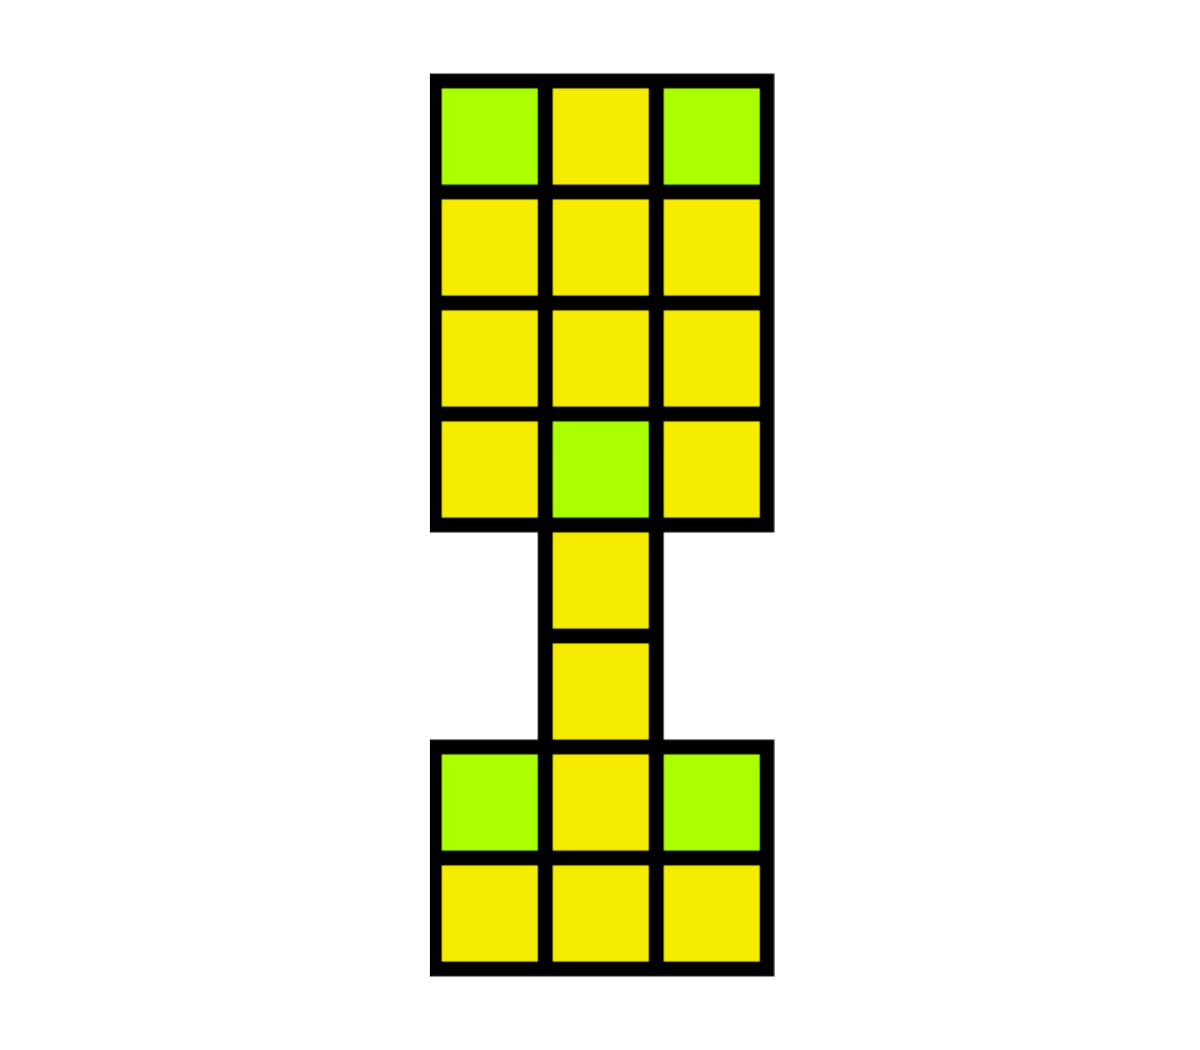
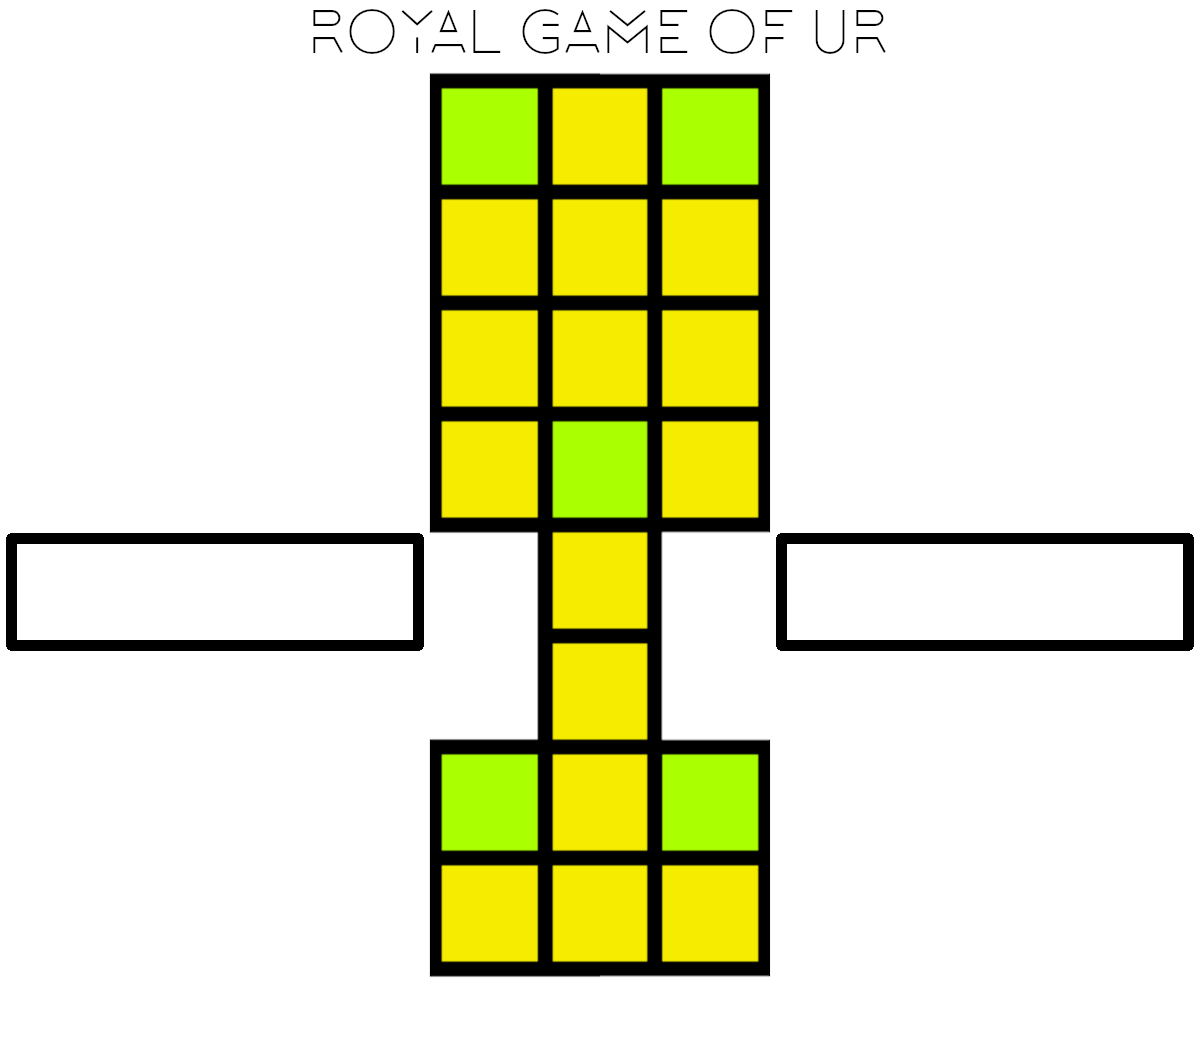
1.0 Believed to be fully functional local play

diff --git a/interface.py b/interface.py
@@ -53,9 +53,10 @@ class LocalInterface(PlayerInterface):
     info = pygame.display.Info()
     MAX_WIDTH, MAX_HEIGHT = 1200, 1050
     screen_width, screen_height = info.current_w, info.current_h
-    _ratio = min(screen_width/MAX_WIDTH, screen_height/MAX_HEIGHT, 1)
+    _ratio = min((screen_width-100)/MAX_WIDTH, (screen_height-100)/MAX_HEIGHT, 1)
 
 
+    pygame.display.set_caption('Ur')
     _clock = pygame.time.Clock()
     _window = pygame.display.set_mode((int(_ratio*MAX_WIDTH),
                                                         int(_ratio*MAX_HEIGHT)))
@@ -68,9 +69,25 @@ class LocalInterface(PlayerInterface):
     _pyramid1_s = scale_surface(pygame.image.load(os.path.join(
            dirname, 'images', 'modern_skin', 'pyramid1.png')).convert(), _ratio)
 
-    #font = pygame.font.Font(None, 40) # default font, size 20
-    #cant_move_text_s = font.render('All Moves Blocked', True,
-                                                         #pygame.Color('black'))
+    _roll_msg_s = scale_surface(pygame.image.load(os.path.join(dirname,
+              'images', 'modern_skin', 'roll.png')).convert(), _ratio)
+    _roll_bold_msg_s = scale_surface(pygame.image.load(os.path.join(dirname,
+              'images', 'modern_skin', 'roll_bold.png')).convert(), _ratio)
+    _move_msg_s = [
+            scale_surface(pygame.image.load(os.path.join(dirname,
+                      'images', 'modern_skin', 'move0.png')).convert(), _ratio),
+            scale_surface(pygame.image.load(os.path.join(dirname,
+                      'images', 'modern_skin', 'move1.png')).convert(), _ratio),
+            scale_surface(pygame.image.load(os.path.join(dirname,
+                      'images', 'modern_skin', 'move2.png')).convert(), _ratio),
+            scale_surface(pygame.image.load(os.path.join(dirname,
+                      'images', 'modern_skin', 'move3.png')).convert(), _ratio),
+            scale_surface(pygame.image.load(os.path.join(dirname,
+                      'images', 'modern_skin', 'move4.png')).convert(), _ratio)
+    ]
+    _victory_msg_s = scale_surface(pygame.image.load(os.path.join(dirname,
+                     'images', 'modern_skin', 'victory.png')).convert(), _ratio)
+
     _window.blit(_background_s, (0, 0))
 
     def __init__ (self, side = 'L', num_start_pieces = 7, num_end_pieces = 0):
@@ -133,12 +150,13 @@ class LocalInterface(PlayerInterface):
             self._roll_rects = tuple(map(
                              lambda t: pygame.Rect(scale_tuple(t, self._ratio)), 
                                       (
-                                        ( 15, 542, 100, 100),
-                                        (115, 542, 100, 100),
-                                        (215, 542, 100, 100),
-                                        (315, 542, 100, 100),
+                                        ( 15, 542, 101, 101),
+                                        (115, 542, 101, 101),
+                                        (215, 542, 101, 101),
+                                        (315, 542, 101, 101),
                                )))
-            self._message_rect = pygame.Rect(scale_tuple((50, 405, 300, 150), self._ratio))
+            self._msg_rect = pygame.Rect(scale_tuple((6, 390, 418, 130),
+                                                                   self._ratio))
 
         else: # side == 'R' start,end,message,roll rects not correct
             self._piece_s = scale_surface(pygame.image.load(
@@ -196,23 +214,22 @@ class LocalInterface(PlayerInterface):
             self._roll_rects = tuple(map(
                               lambda t: pygame.Rect(scale_tuple(t, self._ratio)), 
                                       (
-                                        ( 785, 542, 100, 100),
-                                        ( 885, 542, 100, 100),
-                                        ( 985, 542, 100, 100),
-                                        (1085, 542, 100, 100),
+                                        ( 785, 542, 101, 101),
+                                        ( 885, 542, 101, 101),
+                                        ( 985, 542, 101, 101),
+                                        (1085, 542, 101, 101),
                                )))
-            self._message_rect = pygame.Rect(scale_tuple(
-                                               (55, 540, 450, 150), self._ratio))
+            self._msg_rect = pygame.Rect(scale_tuple((776, 390, 418, 130),
+                                                                   self._ratio))
 
         self._start_area = self._start_rects[0].unionall(self._start_rects[1:])
-        self._roll_area = self._roll_rects[0].unionall(self._roll_rects[1:])
+        self._roll_area = self._msg_rect.unionall(self._roll_rects)
         self._board_area = \
                         self._board_squares[0].unionall(self._board_squares[1:])
 
         # put piece images into their initial positions
         self._window.blits(((self._piece_small_s, rect)
                     for rect in self._start_rects[:self._num_start_pieces]))
-        self._clock.tick(40)
         pygame.display.flip()
 
 
@@ -228,25 +245,46 @@ class LocalInterface(PlayerInterface):
     def show_roll(self, roll):
         pyramids = [self._pyramid1_s] * roll + [self._pyramid0_s] * (4 - roll)
         shuffle(pyramids)
+
+        self._window.blit(self._roll_msg_s, self._msg_rect)
+        pygame.display.update(self._msg_rect)
+
+        pygame.event.set_allowed(pygame.MOUSEMOTION)
+        roll_msg_isbold = False
         while True: # wait until BUTTONDOWN in _roll_area
-            event = self.get_next_matching_event(pygame.MOUSEBUTTONDOWN)
-            # is a flip required to repair cursor move or window move????
+            event = self.get_next_matching_event(pygame.MOUSEBUTTONDOWN,
+                                                             pygame.MOUSEMOTION)
             if self._roll_area.collidepoint(event.pos):
-                break
+                if event.type == pygame.MOUSEBUTTONDOWN:
+                    break
+                if event.type == pygame.MOUSEMOTION and not roll_msg_isbold:
+                    roll_msg_isbold = True
+                    self._window.blit(self._roll_bold_msg_s, self._msg_rect)
+            elif roll_msg_isbold:
+                roll_msg_isbold = False
+                self._window.blit(self._roll_msg_s, self._msg_rect)
+            self._clock.tick(40)
+            pygame.display.update(self._msg_rect)
+        pygame.event.set_blocked(pygame.MOUSEMOTION)
         self._window.blits(zip(pyramids, self._roll_rects))
-        self._clock.tick(40)
         pygame.display.update(self._roll_area)
 
 
     def get_start(self, roll):
-        while True:
+        self._window.blit(self._move_msg_s[roll], self._msg_rect)
+        pygame.display.update(self._roll_area)
+        result = None
+        while result == None:
             event = self.get_next_matching_event(pygame.MOUSEBUTTONDOWN)
             if self._start_area.collidepoint(event.pos):
-                return 0
+                result = 0
             if self._board_area.collidepoint(event.pos):
                 for index, rect in enumerate(self._board_squares, start=1):
                     if rect.collidepoint(event.pos):
-                        return index
+                        result = index
+        self._window.blit(self._background_s, self._msg_rect, self._msg_rect)
+        pygame.display.update(self._roll_area)
+        return result
 
 
     def show_move(self, start, end):
@@ -261,29 +299,33 @@ class LocalInterface(PlayerInterface):
             self._window.blit(self._background_s, self._board_squares[start-1],
                                                 self._board_squares[start-1])
             dirty_rects.append(self._board_squares[start-1])
-        if end == 15: #move to end.15==len(board_squares)-1 + 1 before + 1 after
-            # may need to blit from background_s if pieces misalign
+        if end == 15: #move to end 15==len(board_squares)-1 + 1 before + 1 after
             self._window.blit(self._piece_small_s,
                                           self._end_rects[self._num_end_pieces])
             dirty_rects.append(self._end_rects[self._num_end_pieces])
             self._num_end_pieces += 1
         else: # move to end square
+            self._window.blit(self._background_s, self._board_squares[end-1],
+                                                     self._board_squares[end-1])
             self._window.blit(self._piece_s, self._board_squares[end-1])
             dirty_rects.append(self._board_squares[end-1])
                                                 
-        self._clock.tick(40)
+        self._clock.tick(40) #if this line ommitted victory message not show
         pygame.display.update(dirty_rects)
         # end show_move
 
     def show_taken(self): # this may be bodgy - better to have a complete show opponents move
         self._window.blit(self._piece_small_s,
                                       self._start_rects[self._num_start_pieces])
-        self._clock.tick(40)
         pygame.display.update(self._start_rects[self._num_start_pieces])
         self._num_start_pieces += 1
 
     def show_cant_move(self, roll):
-        pass
+        self._window.blit(self._move_msg_s[0], self._msg_rect)
+        pygame.display.update(self._msg_rect)
+        pygame.time.wait(1500)
+        self._window.blit(self._background_s, self._msg_rect, self._msg_rect)
+        pygame.display.update(self._msg_rect)
 
 
     def show_invalid_move(self, start, end):
@@ -291,20 +333,18 @@ class LocalInterface(PlayerInterface):
         pass
 
     def show_won(self):
-        '''if not LocalPlayerInterface.result_shown:
-        pygame show won message
-        LocalPlayerInterface.result_shown = True'''
-        pass
+        self._clock.tick(40)
+        self._window.blit(self._victory_msg_s, self._msg_rect)
+        pygame.display.update(self._msg_rect)
 
     def show_lost(self):
-        '''if not LocalPlayerInterface.result_shown:
-        pygame show lost message
-        LocalPlayerInterface.result_shown = True'''
         pass
 
     def check_for_quit(self):
-        if pygame.QUIT in pygame.event.get():
-            raise GUIQuitException
+        self._clock.tick(40)
+        for event in pygame.event.get():
+            if event.type == pygame.QUIT:
+                raise GUIQuitException
 
     def close(self):
         if LocalInterface._window:

diff --git a/game.py b/game.py
@@ -2,7 +2,7 @@
 
 # Written by Nathan Sinclair: Begun 10 Sep 2021
 # Already learnt about shebang, ABC.@abstractmethods, git stage+commit+pull+push
-# moderately overwhelmed (might equal learning)
+# MVC approach appears to have been applied successfully1
 
 from interface import LocalInterface, GUIQuitException
 from player import Player
